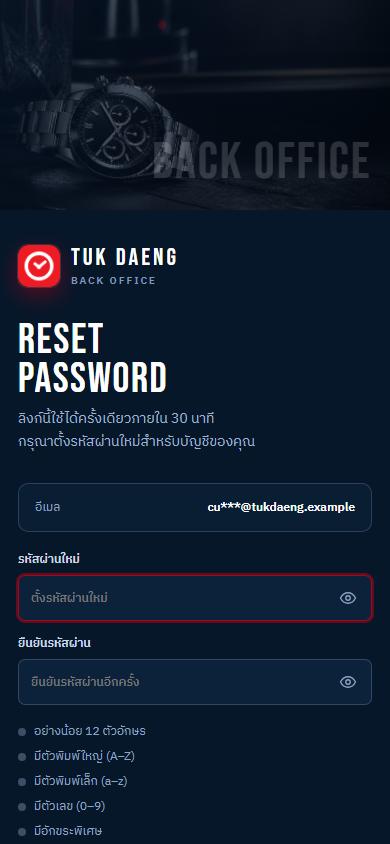
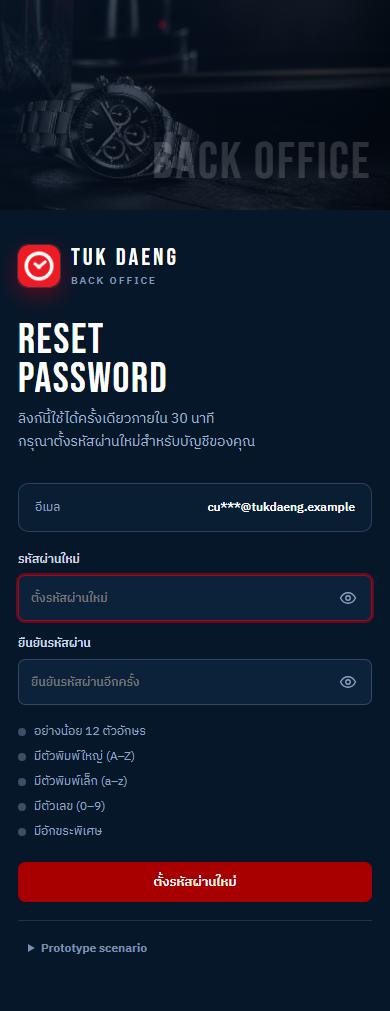
docs: fix mission-2-obj3 mobile auth shots to capture full scrollable content
Generated with [Devin](https://devin.ai)

diff --git a/scripts/capture-m2-obj3-password-recovery.js b/scripts/capture-m2-obj3-password-recovery.js
@@ -51,6 +51,18 @@ async function shot(page, name, opts = {}) {
   console.log("saved", name);
 }
 
+// auth screens บน mobile: body ล็อก height=100vh + html overflow hidden —
+// content ยาวกว่า viewport จะ paint ไม่ครบ (แถบขาว/ปุ่มตัด) → ขยาย viewport ให้พอดี scrollHeight จริงก่อน capture
+async function shotAuthMobile(page, name) {
+  const contentH = await page.evaluate(() => document.body.scrollHeight);
+  if (contentH > 844) {
+    await page.setViewportSize({ width: 390, height: contentH });
+    await page.waitForTimeout(150);
+  }
+  await shot(page, name);
+  await page.setViewportSize({ width: 390, height: 844 });
+}
+
 (async () => {
   fs.mkdirSync(OUT, { recursive: true });
   const browser = await chromium.launch();
@@ -152,32 +164,31 @@ async function shot(page, name, opts = {}) {
   await shot(page, "18-reset-account-blocked-generic");
 
   // ============ D. Mobile 390 ============
-  // auth screens เป็น fixed-viewport layout — viewport shot เท่านั้น (fullPage จะเหลือแถบขาว)
   await page.setViewportSize({ width: 390, height: 844 });
   await gotoLogin(page);
   await submitLogin(page, LOCKED_FAILED_LOGIN_EMAIL);
-  await shot(page, "m01-mobile-login-lockout");
+  await shotAuthMobile(page, "m01-mobile-login-lockout");
 
   await goToForgot(page);
-  await shot(page, "m02-mobile-forgot-ready");
+  await shotAuthMobile(page, "m02-mobile-forgot-ready");
   await page.locator("#forgot-email").fill(ACTIVE_EMAIL);
   await page.locator("#forgot-submit").click();
   await page.waitForSelector("[data-forgot-accepted]", { timeout: 5000 });
-  await shot(page, "m03-mobile-forgot-accepted");
+  await shotAuthMobile(page, "m03-mobile-forgot-accepted");
 
   await openReset(page, "ADM-010");
   await page.waitForSelector("#reset-form", { timeout: 5000 });
-  await shot(page, "m04-mobile-reset-form");
+  await shotAuthMobile(page, "m04-mobile-reset-form");
 
   await page.locator("#reset-password").fill(NEW_PASSWORD);
   await page.locator("#reset-password-confirm").fill(NEW_PASSWORD);
   await page.locator("#reset-submit").click();
   await page.waitForSelector("[data-reset-success]", { timeout: 5000 });
-  await shot(page, "m05-mobile-reset-success");
+  await shotAuthMobile(page, "m05-mobile-reset-success");
 
   await openReset(page, "ADM-010", { expiresAt: new Date(Date.now() - 60e3).toISOString() });
   await page.waitForSelector("[data-reset-failure]", { timeout: 5000 });
-  await shot(page, "m06-mobile-reset-expired");
+  await shotAuthMobile(page, "m06-mobile-reset-expired");
 
   await browser.close();
   console.log("done →", OUT);
